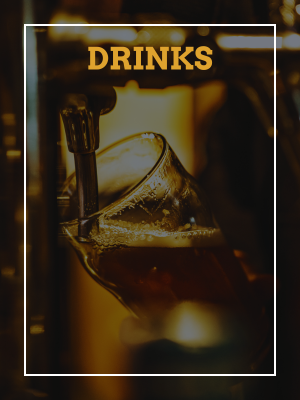
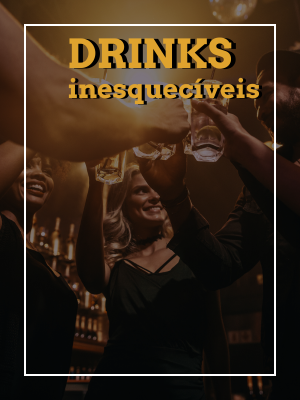
alguém vai ler essa frase?

diff --git a/SerratecPub-React/src/pages/Home/HomePage.module.css b/SerratecPub-React/src/pages/Home/HomePage.module.css
@@ -68,12 +68,12 @@
   animation: appear 1s; 
 }
 .content .box:nth-child(2) {
-  background-image: url('../../assets/images/home-bar22.png');
+  background-image: url('../../assets/images/home-bar22new.png');
   background-size: cover;
 }
 
 .content .box:nth-child(3) {
-  background-image: url('../../assets/images/home-bar33.png');
+  background-image: url('../../assets/images/home-bar33-new.png');
   background-size: cover;
 }
 
@@ -102,10 +102,11 @@
 .content .box .contentBx h2 {
   font-size: 70px;
   color: #fff;
-  text-shadow: #4c3f5f 5px 5px 2px;
+  text-shadow: #4c3f5f 5px 5px 1px;
   text-align:left;
   text-decoration: none; 
   line-height: 1.3;
+  font-weight: 900;
 }
 
 .container_b {
@@ -134,6 +135,7 @@
   text-align: left;
   font-size: 30px;
   margin-bottom: 20px;
+  font-weight: 600;
 }
 
 .container_b .container_b_about p {

diff --git a/SerratecPub-React/src/pages/Home/HomePage.jsx b/SerratecPub-React/src/pages/Home/HomePage.jsx
@@ -12,9 +12,9 @@ export function HomePage() {
             <main>
                 <section className={styles.container_a}>
                     <div className={styles.tabs}>
-                        <input id="home1" type="radio" name="slider" defaultChecked />
-                        <input id="home2" type="radio" name="slider" />
-                        <input id="home3" type="radio" name="slider" />
+                        <input id="radio1" type="radio" name="slider" defaultChecked />
+                        <input id="radio2" type="radio" name="slider" />
+                        <input id="radio3" type="radio" name="slider" />
                         <div className={styles.buttons}>
                             <label htmlFor="home1"></label>
                             <label htmlFor="home2"></label>
